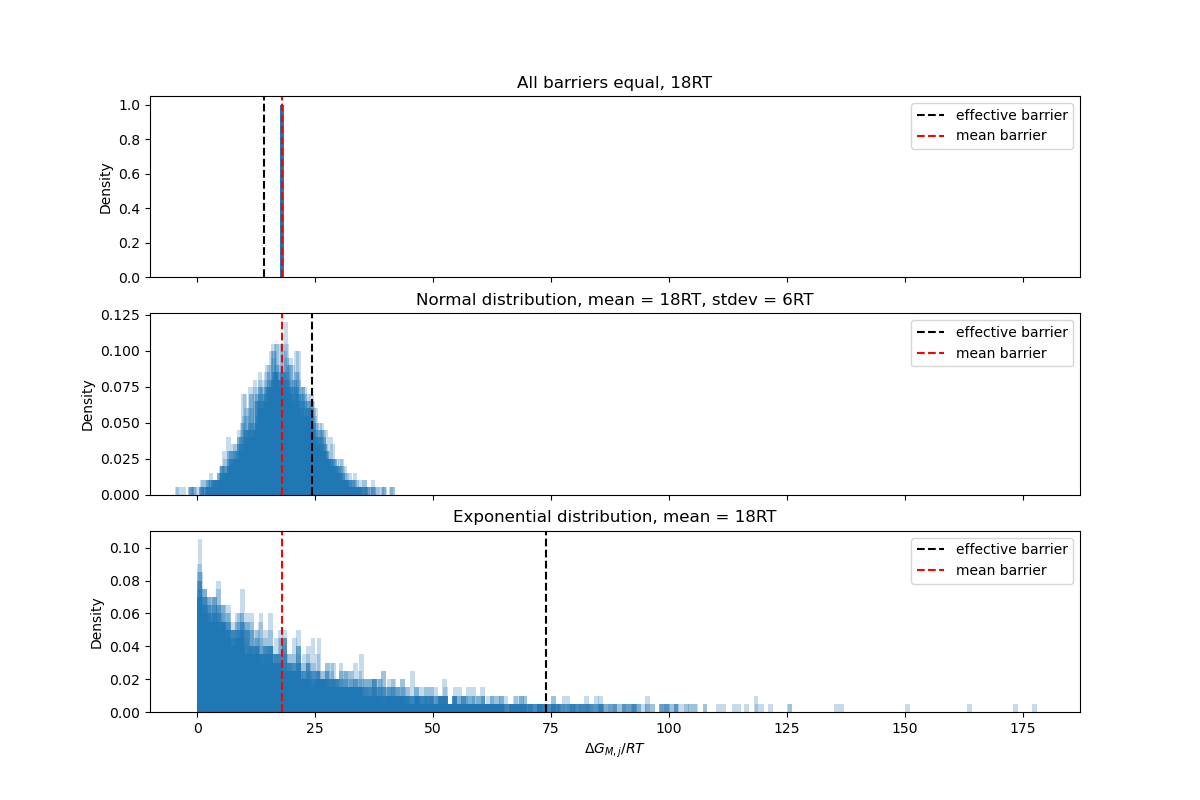
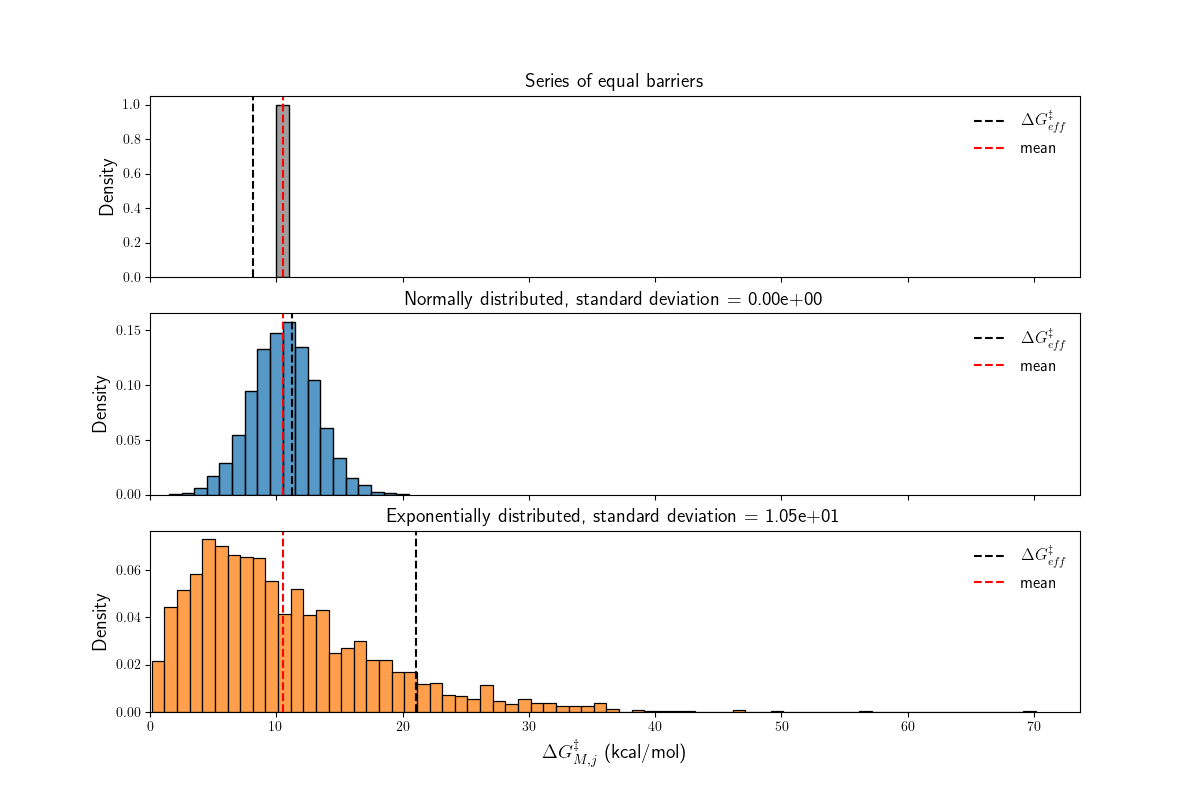
cleaning up max barriers and parallel pores figures

diff --git a/run_analyses.py b/run_analyses.py
@@ -38,12 +38,15 @@ def parallel_pores(dH_barrier, dS_barrier, dH_sigma, dS_sigma, dG_barrier, T=300
 
     # plot the membrane barrier distribution for each pore, overlapping
     effective_barriers = np.zeros(n_paths)
+    all_barriers = []
     for n in tqdm(range(n_paths)):
         model_equal.add_Path(n_jumps=n_jumps)
         model_equal.paths[n].generate_membrane_barriers(dist=dist, multi=multi, dist_params=params)
         effective_barriers[n] = model_equal.paths[n].calculate_effective_barrier()
-        sns.histplot(model_equal.paths[n].membrane_barriers, edgecolor=None, ax=ax[0], stat='density', fill=fill, alpha=0.25)
+        [all_barriers.append(b) for b in model_equal.paths[n].membrane_barriers]
+        # sns.histplot(model_equal.paths[n].membrane_barriers, edgecolor=None, ax=ax[0], stat='density', fill=fill, alpha=0.25)
 
+    sns.histplot(all_barriers, edgecolor='black', ax=ax[0], stat='density', color='tab:gray', alpha=0.75)
     permeability = model_equal.calculate_permeability()
     effective_barrier_equal = model_equal.calculate_effective_barrier()
 
@@ -70,12 +73,15 @@ def parallel_pores(dH_barrier, dS_barrier, dH_sigma, dS_sigma, dG_barrier, T=300
 
     # plot the membrane barrier distribution for each pore, overlapping
     effective_barriers = np.zeros(n_paths)
+    all_barriers = []
     for n in tqdm(range(n_paths)):
         model_norm.add_Path(n_jumps=n_jumps)
         model_norm.paths[n].generate_membrane_barriers(dist=dist, multi=multi, dist_params=params)
         effective_barriers[n] = model_norm.paths[n].calculate_effective_barrier()
-        sns.histplot(model_norm.paths[n].membrane_barriers, binwidth=1, edgecolor=None, ax=ax[1], stat='density', fill=fill, alpha=0.25)
+        [all_barriers.append(b) for b in model_norm.paths[n].membrane_barriers]
+        # sns.histplot(model_norm.paths[n].membrane_barriers, binwidth=1, edgecolor=None, ax=ax[1], stat='density', fill=fill, alpha=0.25)
 
+    sns.histplot(all_barriers, binwidth=1, edgecolor='black', ax=ax[1], stat='density', color='tab:blue', alpha=0.75)
     permeability = model_norm.calculate_permeability()
     effective_barrier_norm = model_norm.calculate_effective_barrier()
 
@@ -101,12 +107,15 @@ def parallel_pores(dH_barrier, dS_barrier, dH_sigma, dS_sigma, dG_barrier, T=300
 
     # plot the membrane barrier distribution for each pore, overlapping
     effective_barriers = np.zeros(n_paths)
+    all_barriers = []
     for n in tqdm(range(n_paths)):
         model_exp.add_Path(n_jumps=n_jumps)
         model_exp.paths[n].generate_membrane_barriers(dist=dist, multi=multi, dist_params=params)
         effective_barriers[n] = model_exp.paths[n].calculate_effective_barrier()
-        sns.histplot(model_exp.paths[n].membrane_barriers, binwidth=1, edgecolor=None, ax=ax[2], stat='density', fill=fill, alpha=0.25)
+        [all_barriers.append(b) for b in model_exp.paths[n].membrane_barriers]
+        # sns.histplot(model_exp.paths[n].membrane_barriers, binwidth=1, edgecolor=None, ax=ax[2], stat='density', fill=fill, alpha=0.25)
 
+    sns.histplot(all_barriers, binwidth=1, edgecolor='black', ax=ax[2], stat='density', color='tab:orange', alpha=0.75)
     permeability = model_exp.calculate_permeability()
     effective_barrier_exp = model_exp.calculate_effective_barrier()
 
@@ -124,44 +133,49 @@ def parallel_pores(dH_barrier, dS_barrier, dH_sigma, dS_sigma, dG_barrier, T=300
     # PLOTTING
 
     # plot the effective barrier, max barrier, and mean barrier
-    ax[0].axvline(effective_barrier_equal, ls='dashed', c='k', label='effective barrier')
-    ax[0].axvline(dG_barrier, ls='dashed', c='r', label='mean barrier')
-    ax[0].legend()
-    ax[0].set_title(f'All barriers equal, {dG_barrier:.4f}')
+    ax[0].axvline(effective_barrier_equal, ls='dashed', c='k', label='$\Delta G_{eff}^{\ddag}$')
+    ax[0].axvline(dG_barrier, ls='dashed', c='r', label='mean')
+    ax[0].legend(frameon=False, fontsize=12)
+    ax[0].set_ylabel('Density', fontsize=14)
+    ax[0].set_title(f'Series of equal barriers', fontsize=14)
 
-    ax[1].axvline(effective_barrier_norm, ls='dashed', c='k', label='effective barrier')
-    ax[1].axvline(dG_barrier, ls='dashed', c='r', label='mean barrier')
-    ax[1].legend()
-    ax[1].set_title(f'Normal distribution, mean = {dG_barrier:.4f}, stdev = {effective_barrier_norm.std():.4f}')
+    ax[1].axvline(effective_barrier_norm, ls='dashed', c='k', label='$\Delta G_{eff}^{\ddag}$')
+    ax[1].axvline(dG_barrier, ls='dashed', c='r', label='mean')
+    ax[1].legend(frameon=False, fontsize=12)
+    ax[1].set_ylabel('Density', fontsize=14)
+    ax[1].set_title(f'Normally distributed, standard deviation = {5:.2e}', fontsize=14)
 
-    ax[2].axvline(effective_barrier_exp, ls='dashed', c='k', label='effective barrier')
-    ax[2].axvline(dG_barrier, ls='dashed', c='r', label='mean barrier')
-    ax[2].legend()
-    ax[2].set_title(f'Exponential distribution, mean = {dG_barrier:.4f}')
+    ax[2].axvline(effective_barrier_exp, ls='dashed', c='k', label='$\Delta G_{eff}^{\ddag}$')
+    ax[2].axvline(dG_barrier, ls='dashed', c='r', label='mean')
+    ax[2].legend(frameon=False, fontsize=12)
+    ax[2].set_ylabel('Density', fontsize=14)
+    ax[2].set_title(f'Exponentially distributed, standard deviation = {dG_barrier:.2e}', fontsize=14)
 
-    ax[2].set_xlabel('$\Delta G_{M,j}$')
-    ax[2].set_xlim(-10,)
+    ax[2].set_xlabel('$\Delta G_{M,j}^{\ddag}$ (kcal/mol)', fontsize=14)
+    ax[2].set_xlim(0,)
 
-    fig1, ax1 = plt.subplots(1,1, figsize=(6,6))
-    sns.barplot(data=df_norm, x='pores', y='permeability_percent', ax=ax1)
-    ax1.set_ylabel('percentage of permeability')
-    xmin, xmax = plt.xlim()
-    ymin, ymax = plt.ylim()
-    ax1.text(xmax*0.95, ymax*0.9, 'Max P: {:.4f}\nOverall P: {:.4f}'.format(df_norm['permeability'].max(), df_norm['permeability'].sum()), ha='right')
+    print(effective_barrier_norm.std())
 
-    fig2, ax2 = plt.subplots(1,1, figsize=(6,6))
-    sns.barplot(data=df_exp, x='pores', y='permeability_percent', ax=ax2)
-    ax2.set_ylabel('percentage of permeability')
-    xmin, xmax = plt.xlim()
-    ymin, ymax = plt.ylim()
-    ax2.text(xmax*0.95, ymax*0.9, 'Max P: {:.4f}\nOverall P: {:.4f}'.format(df_exp['permeability'].max(), df_exp['permeability'].sum()), ha='right')
+    # fig1, ax1 = plt.subplots(1,1, figsize=(6,6))
+    # sns.barplot(data=df_norm, x='pores', y='permeability_percent', ax=ax1)
+    # ax1.set_ylabel('percentage of permeability')
+    # xmin, xmax = plt.xlim()
+    # ymin, ymax = plt.ylim()
+    # ax1.text(xmax*0.95, ymax*0.9, 'Max P: {:.4f}\nOverall P: {:.4f}'.format(df_norm['permeability'].max(), df_norm['permeability'].sum()), ha='right')
+
+    # fig2, ax2 = plt.subplots(1,1, figsize=(6,6))
+    # sns.barplot(data=df_exp, x='pores', y='permeability_percent', ax=ax2)
+    # ax2.set_ylabel('percentage of permeability')
+    # xmin, xmax = plt.xlim()
+    # ymin, ymax = plt.ylim()
+    # ax2.text(xmax*0.95, ymax*0.9, 'Max P: {:.4f}\nOverall P: {:.4f}'.format(df_exp['permeability'].max(), df_exp['permeability'].sum()), ha='right')
     
-    fig3, ax3 = plt.subplots(1,1, figsize=(6,6))
-    sns.lineplot(data=df_equal, x='pore_fraction', y='flux_fraction', ax=ax3, label='equal')
-    sns.lineplot(data=df_norm, x='pore_fraction', y='flux_fraction', ax=ax3, label='normal')
-    sns.lineplot(data=df_exp, x='pore_fraction', y='flux_fraction', ax=ax3, label='exponential')
-    ax3.set_xlabel('fraction of the pores')
-    ax3.set_ylabel('fraction of the flux')
+    # fig3, ax3 = plt.subplots(1,1, figsize=(6,6))
+    # sns.lineplot(data=df_equal, x='pore_fraction', y='flux_fraction', ax=ax3, label='equal')
+    # sns.lineplot(data=df_norm, x='pore_fraction', y='flux_fraction', ax=ax3, label='normal')
+    # sns.lineplot(data=df_exp, x='pore_fraction', y='flux_fraction', ax=ax3, label='exponential')
+    # ax3.set_xlabel('fraction of the pores')
+    # ax3.set_ylabel('fraction of the flux')
     plt.show()
 
 
@@ -591,14 +605,15 @@ def show_maximums(dH_barrier, dS_barrier, dH_sigma, dS_sigma, T=300, multi=True)
 
     paths = np.arange(1, n_paths+1)
     ax[0].scatter(paths, max_barriers, edgecolors='k')
-    ax[0].axhline(effective_barrier, ls='dashed', c='k')
+    # ax[0].axhline(effective_barrier, ls='dashed', c='k')
     ax[0].axhline(shifted_effective_barrier, ls='dashed', c='r')
     xmin, xmax = ax[0].get_xlim()
     ymin, ymax = ax[0].get_ylim()
-    ax[0].text(xmax*0.75, effective_barrier-1, '$\Delta G_{eff}$')
-    ax[0].text(xmax*0.75, shifted_effective_barrier-1, '$\Delta G_{eff} + RT \ln(N)$', c='r')
-    ax[0].set_ylabel('$\Delta G_{max}$')
-    ax[0].set_ylim(ymin-3, ymax)
+    # ax[0].text(xmax*0, effective_barrier, '$\Delta G_{eff}^{\ddag}$', fontsize=12)
+    ax[0].text(xmax*0.75, shifted_effective_barrier-0.75, '$\Delta G_{eff}^{\ddag} + RT \ln(n)$', c='r', fontsize=12)
+    ax[0].set_ylabel('$\Delta G_{M,max}^{\ddag}$ (kcal/mol)', fontsize=14)
+    ax[0].set_ylim(ymin-1, ymax)
+    ax[0].set_title('Maximum barriers for each path, normally distributed', fontsize=14)
     
     # EXPONENTIAL DISTRIBUTION OF BARRIERS
 
@@ -620,16 +635,17 @@ def show_maximums(dH_barrier, dS_barrier, dH_sigma, dS_sigma, T=300, multi=True)
 
     paths = np.arange(1, n_paths+1)
     ax[1].scatter(paths, max_barriers, edgecolors='k', c='tab:orange')
-    ax[1].axhline(effective_barrier, ls='dashed', c='k')
+    # ax[1].axhline(effective_barrier, ls='dashed', c='k')
     ax[1].axhline(shifted_effective_barrier, ls='dashed', c='r')
     xmin, xmax = ax[1].get_xlim()
     ymin, ymax = ax[1].get_ylim()
-    ax[1].text(xmax*0.75, effective_barrier-5, '$\Delta G_{eff}$')
-    ax[1].text(xmax*0.75, shifted_effective_barrier-3, '$\Delta G_{eff} + RT \ln(N)$', c='r')
-    ax[1].set_ylabel('$\Delta G_{max}$')
-    ax[1].set_ylim(ymin-10, ymax)
+    # ax[1].text(xmax*0, effective_barrier+1, '$\Delta G_{eff}^{\ddag}$', fontsize=12)
+    ax[1].text(xmax*0.75, shifted_effective_barrier-5, '$\Delta G_{eff}^{\ddag} + RT \ln(n)$', c='r', fontsize=12)
+    ax[1].set_ylabel('$\Delta G_{M,max}^{\ddag}$ (kcal/mol)', fontsize=14)
+    ax[1].set_ylim(ymin-5, ymax)
+    ax[1].set_title('Maximum barriers for each path, exponentially distributed', fontsize=14)
     
-    ax[1].set_xlabel('paths')
+    ax[1].set_xlabel('paths', fontsize=14)
     plt.show()
 
 
@@ -847,6 +863,10 @@ def vary_everything(n_jumps_mu, jump_dist, jump_params, barrier_dist, barrier_pa
 
 if __name__ == '__main__':
 
+    # from matplotlib import rc 
+
+    # rc('text', usetex=True)
+    # rc('text.latex', preamble=r'\usepackage{color}')
     plt.rcParams['text.usetex'] = True
 
     # Inputs for testing barriers
@@ -861,13 +881,13 @@ if __name__ == '__main__':
     dG_barrier = dH_barrier - T*dS_barrier
 
     # Choose what analyses to run
-    # parallel_pores(dH_barrier, dS_barrier, dH_sigma, dS_sigma, dG_barrier, T=T, multi=multi)
+    parallel_pores(dH_barrier, dS_barrier, dH_sigma, dS_sigma, dG_barrier, T=T, multi=multi)
     # compare_effective_barriers(dH_barrier, dS_barrier, dH_sigma, dS_sigma, dG_barrier, T=T, multi=multi)
     # plot_paths(dH_barrier, dS_barrier, dH_sigma, dS_sigma, T=T, multi=multi)
     # compare_jump_lengths(dH_barrier, dS_barrier, n_paths, delta=400, T=T, multi=multi)
     # estimate_dH_dS(dH_barrier, dS_barrier, dH_sigma, dS_sigma, n_paths)
     # estimate_dH_dS(dH_barrier, dS_barrier, dH_sigma, dS_sigma, n_paths=50, plot=True)
-    show_maximums(dH_barrier, dS_barrier, dH_sigma, dS_sigma, T=T, multi=multi)
+    # show_maximums(dH_barrier, dS_barrier, dH_sigma, dS_sigma, T=T, multi=multi)
     # fixed_jump_length(dH_barrier, dS_barrier, n_paths=n_paths, T=T, multi=multi)
     # barrier_variance(dH_barrier, dS_barrier, n_paths=n_paths, T=T)
 
